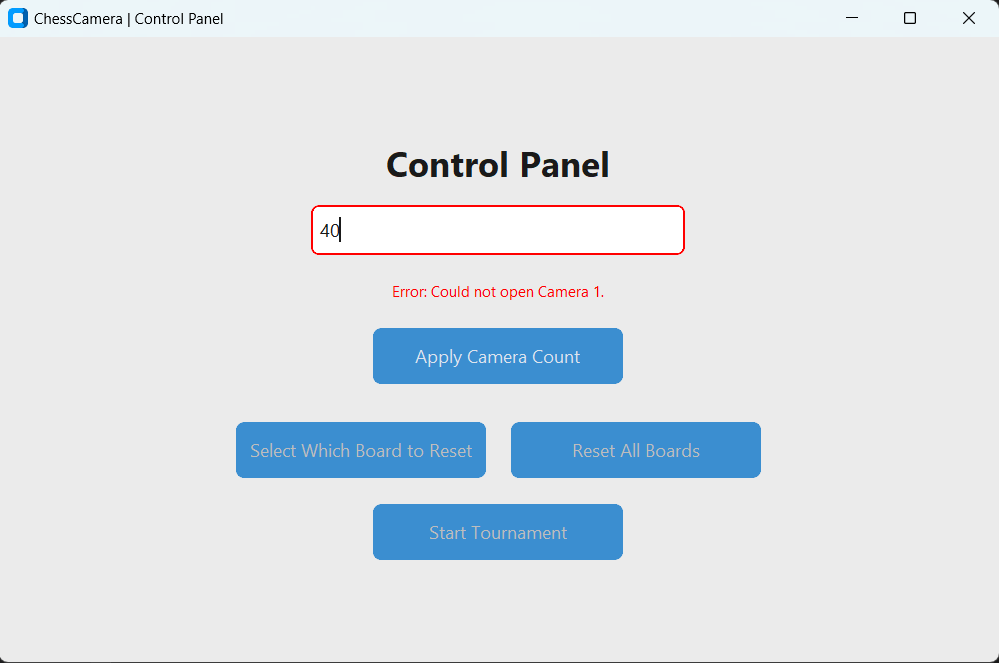
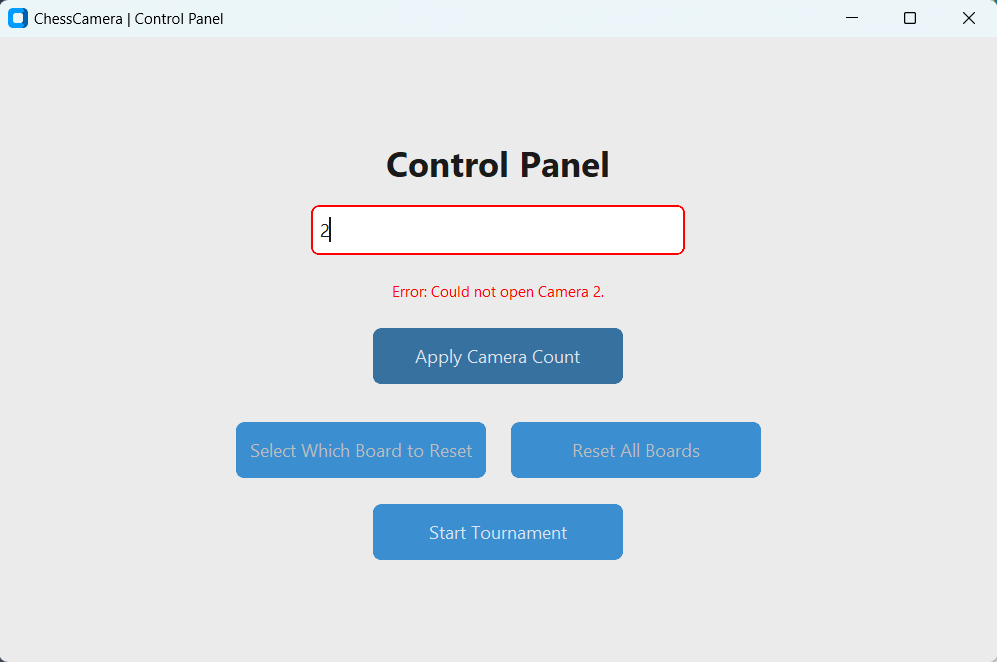
Refactored section about control panel

diff --git a/chapters/06-results.tex b/chapters/06-results.tex
@@ -39,11 +39,12 @@ Before the tournament begins, the organizer must start the application and confi
  
 \begin{figure}[h!] \centering \includegraphics[width=0.75\linewidth]{figures/results/frontend/controlpanel-camera.png} \caption[Progress bar for camera connections]{A progress bar representing the status of connecting cameras}\label{fig:control-panel-camera} \end{figure}
 
-If the organizer attempts to connect more cameras than the system can detect, an error message is displayed, as shown in Figure~\ref{fig:control-panel-camera-error}. This provides feedback to the user about what went wrong. For example, the message "Error: Could not open Camera 1" indicates that the system could not find a camera with ID 1. In the illustrated scenario, no cameras were connected, which caused the error to appear. \\
+When completed connecting the cameras successfully, a success message is displayed, as shown in Figure~\ref{fig:control-panel-camera-success}. If the organizer attempts to connect more cameras than the system can detect, an error message is displayed, as shown in Figure~\ref{fig:control-panel-camera-error}. This provides feedback to the user about what went wrong. For example, the message "Error: Could not open Camera 1" indicates that the system could not find a camera with ID 1. In the illustrated scenario, no cameras were connected, which caused the error to appear. \\
+
+\begin{figure}[h!] \centering \includegraphics[width=0.75\linewidth]{figures/results/frontend/controlpanel-camera-success.png} \caption[Success message for camera connections]{A success message for  connecting cameras correctly}\label{fig:control-panel-camera-success} \end{figure}
 
 \begin{figure}[h!] \centering \includegraphics[width=0.75\linewidth]{figures/results/frontend/controlpanel-camera-error.png} \caption[Error message for camera connections]{A error message for failure connecting cameras}\label{fig:control-panel-camera-error} \end{figure}
 
-The control panel also provides functionality for resetting individual boards or all boards simultaneously. When a tournament round is finished, the organizers must reset all boards before the next round can begin. By pressing the "Reset All Boards" button, they can reset all connected boards at once. In some scenarios, it may be necessary to reset a single board. In such cases, the organizers can use the "Select Which Board to Reset" feature, as shown in Figure~\ref{fig:control-panel-reset-boards}.\
+The control panel also provides functionality for resetting individual boards or all boards simultaneously. When a tournament round is finished, the organizers must reset all boards before the next round can begin. By pressing the "Reset All Boards" button, they can reset all connected boards at once. In some scenarios, it may be necessary to reset a single board. In such cases, the organizers can use the "Select Which Board to Reset" feature, as shown in Figure~\ref{fig:control-panel-reset-boards}. \\
 
 \begin{figure}[h!] \centering \includegraphics[width=0.75\linewidth]{figures/results/frontend/controlpanel-reset-boards.png} \caption[Panel to reset a single board]{The panel to select which board to be reset}\label{fig:control-panel-reset-boards} \end{figure}
-
